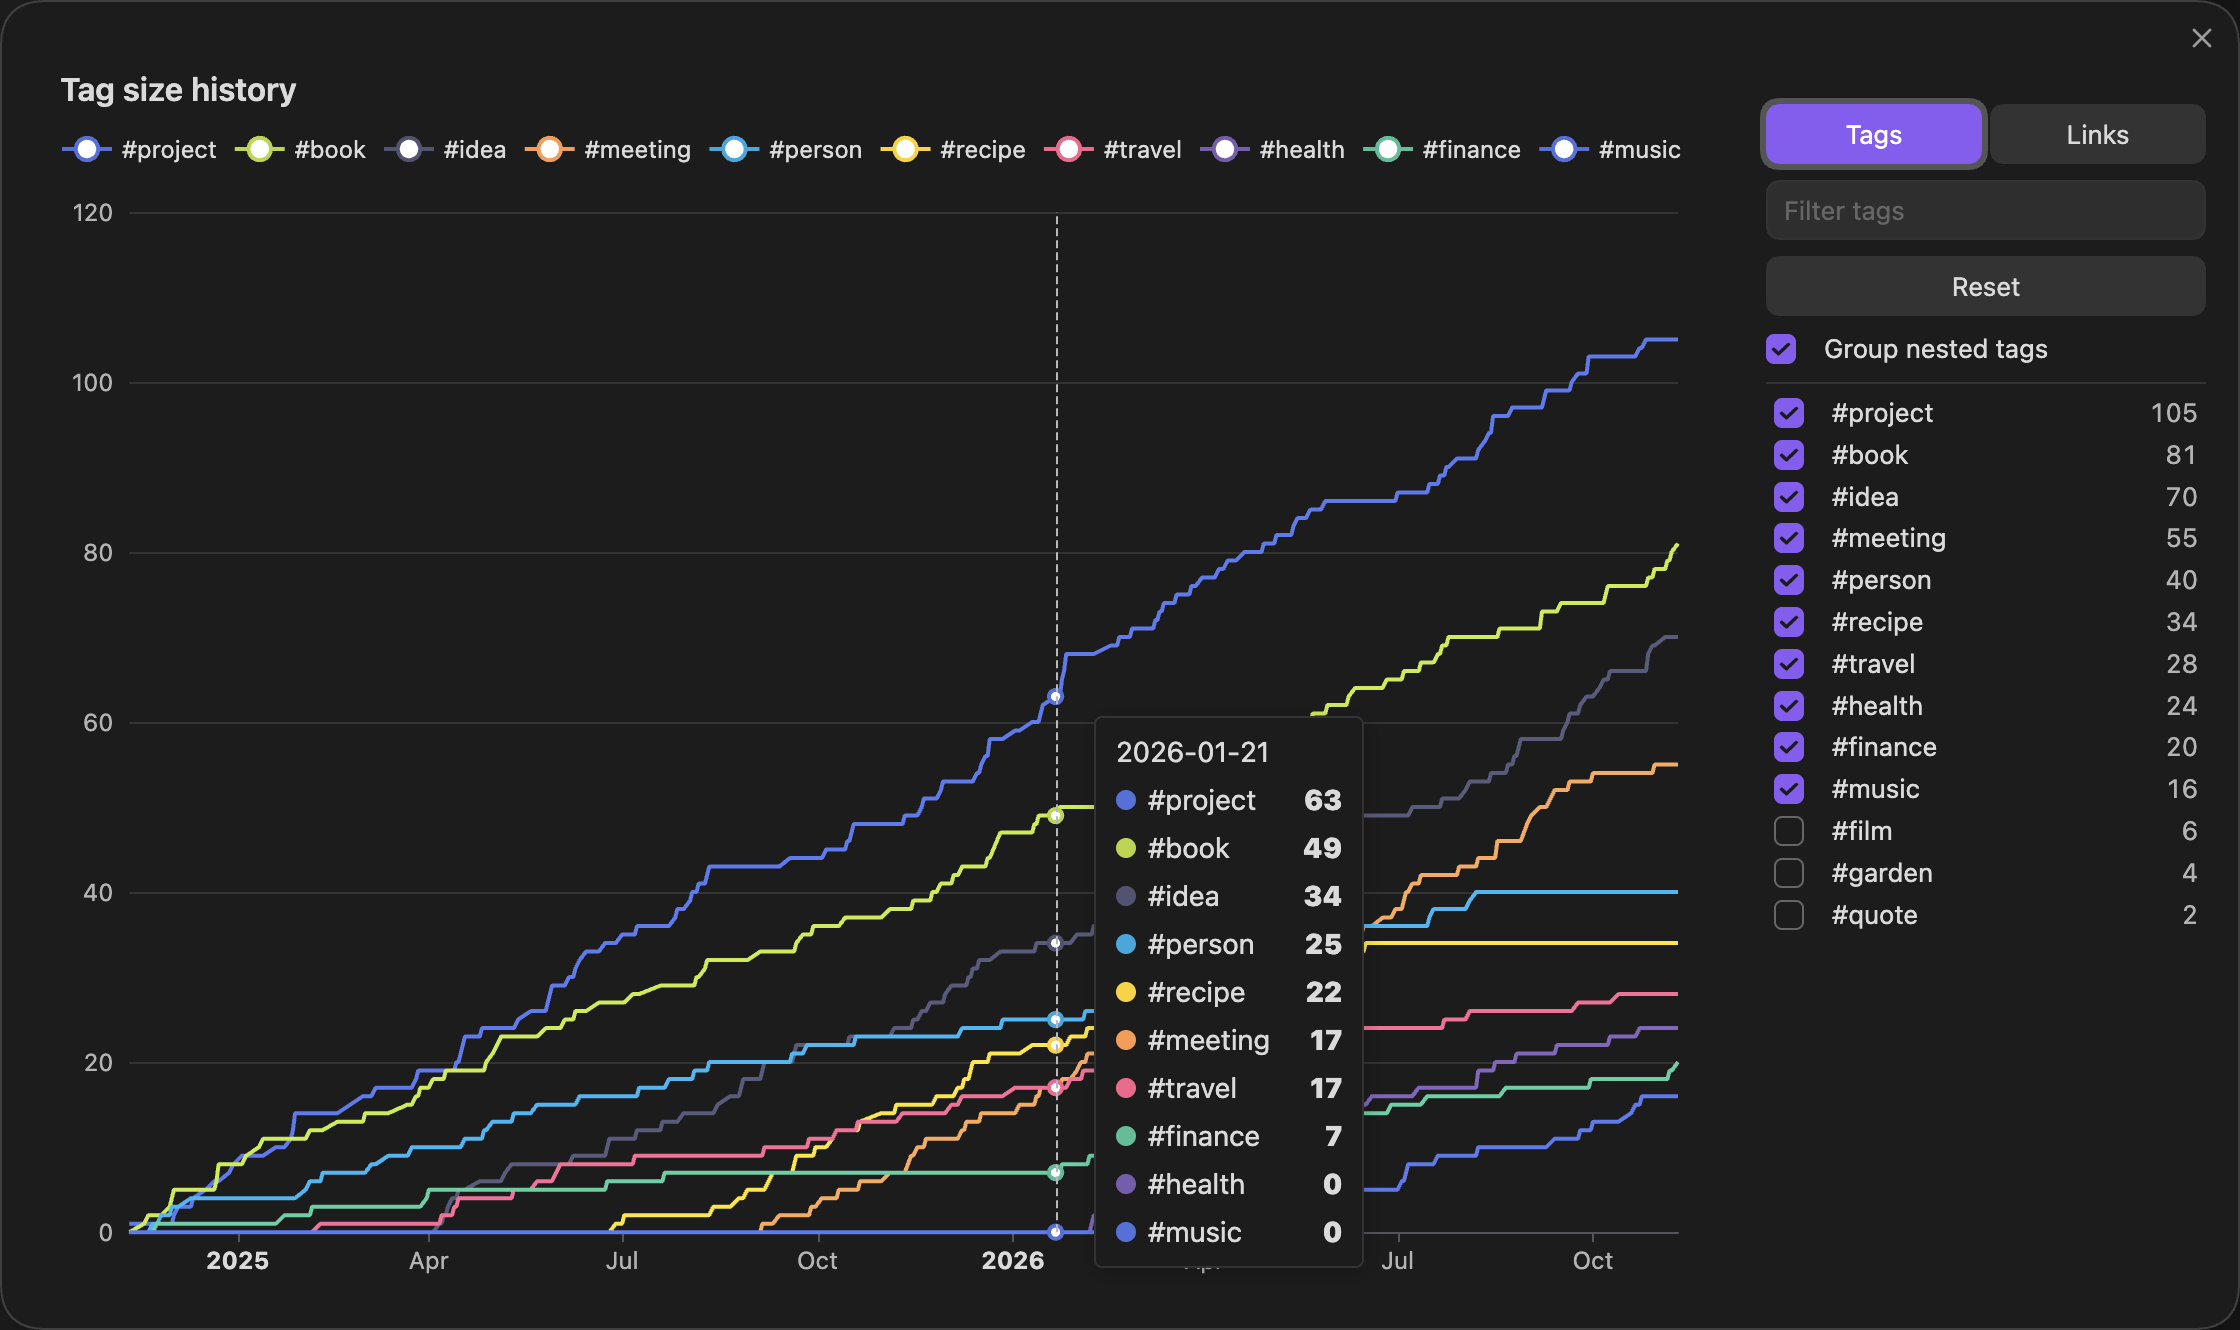
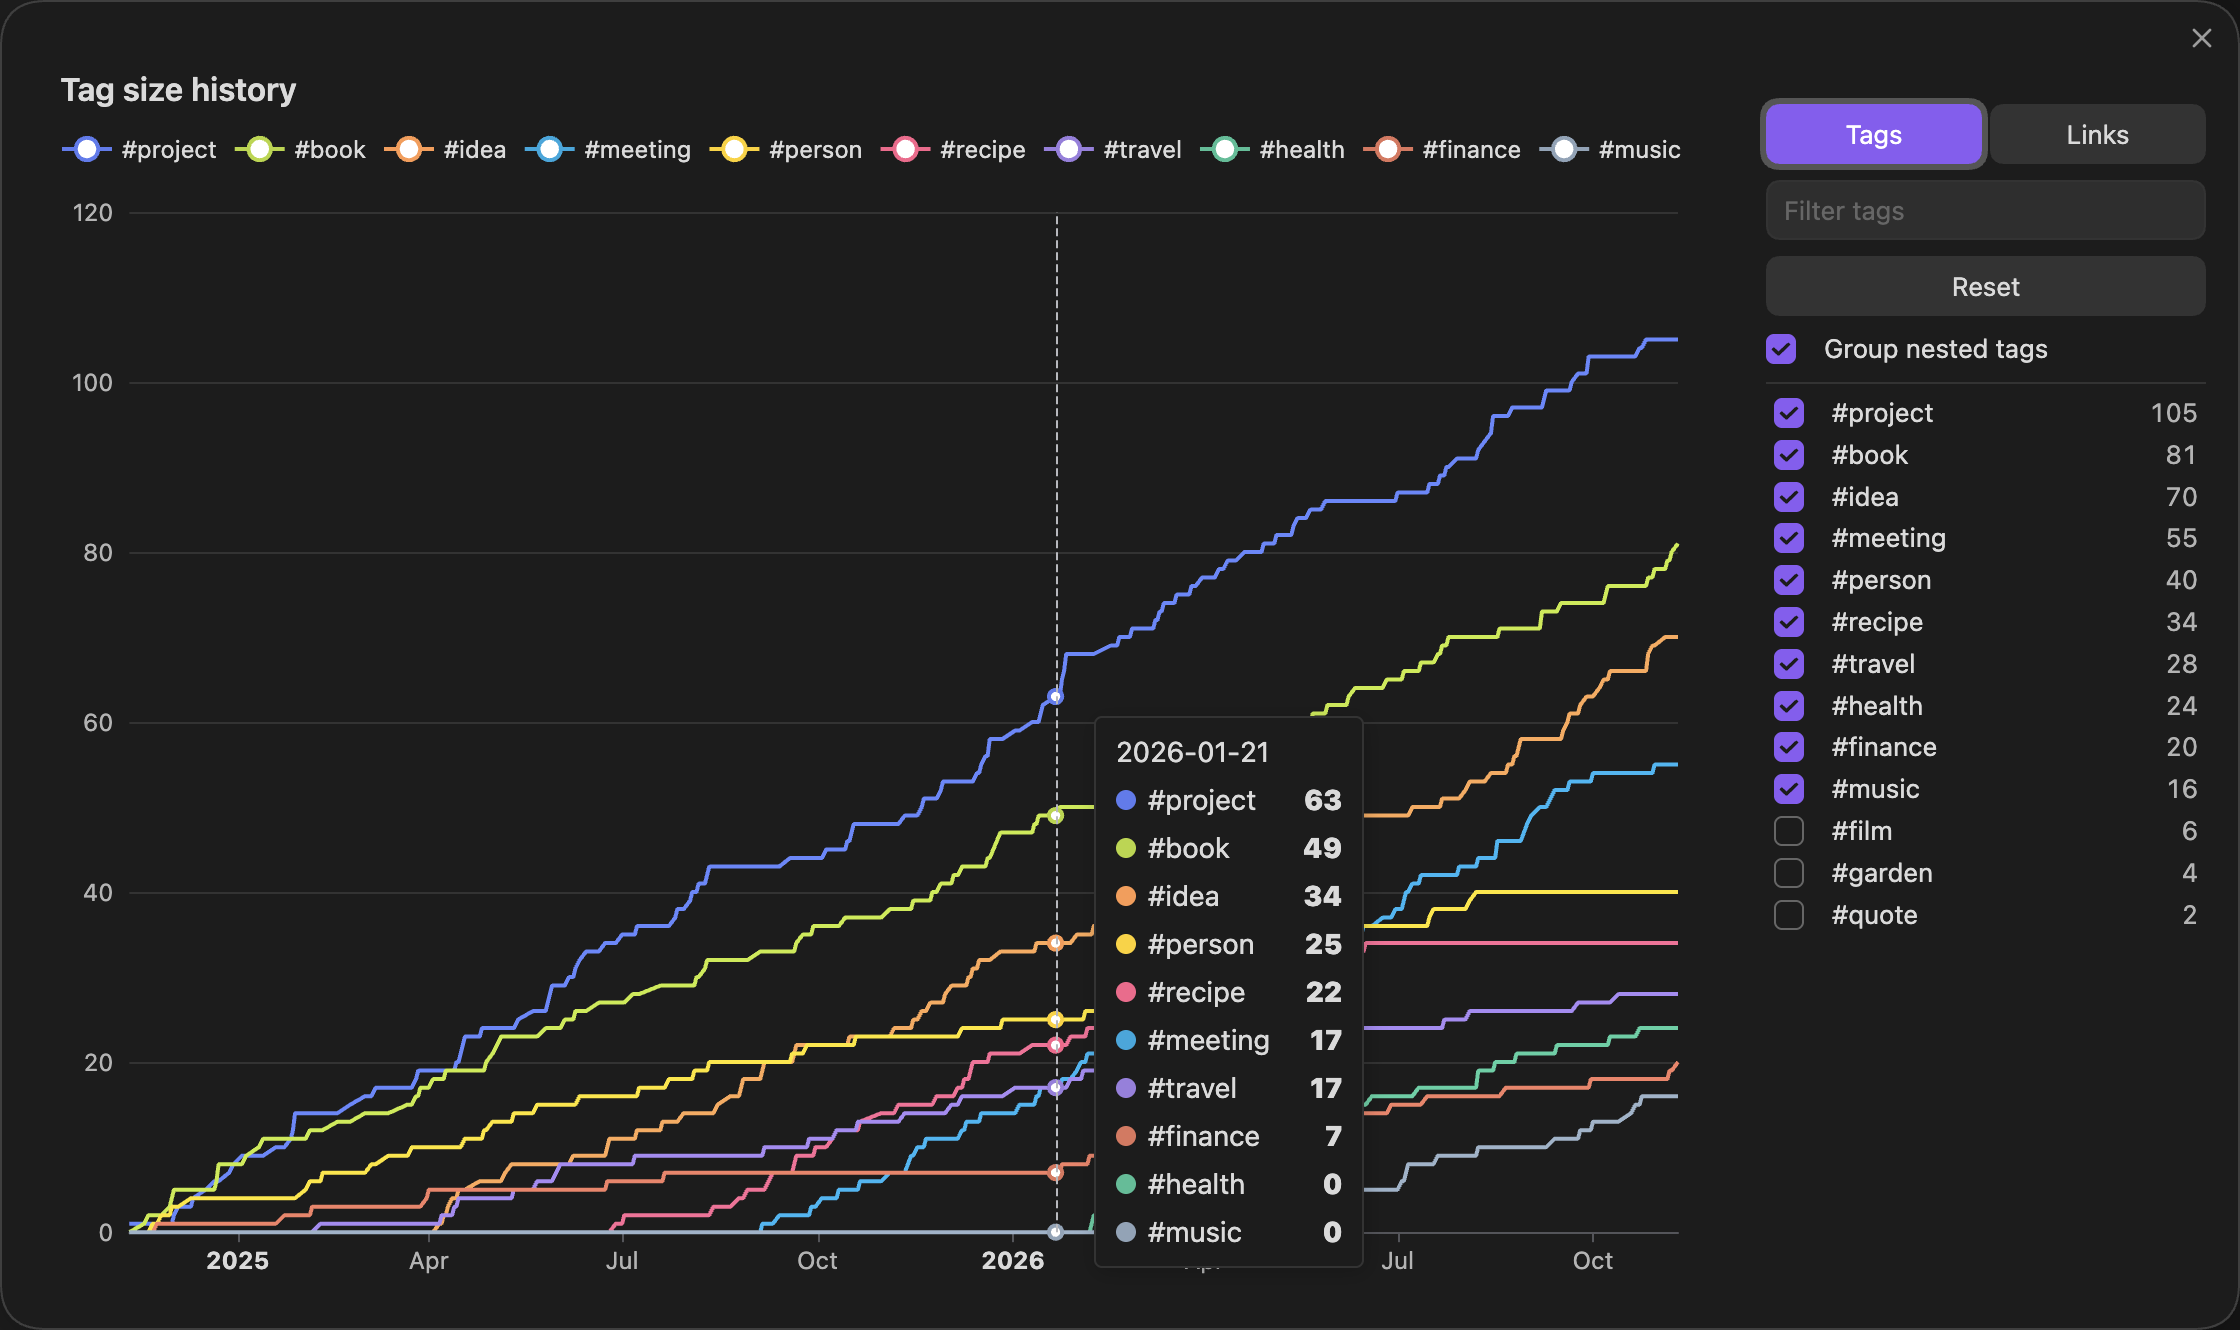
feat: keep each line's colour when others change, and release 0.2.0
Each line now keeps its colour and its place when another line is
switched on or off: colours come from a line's rank among all lines,
and series are matched by id between redraws.

The README pictures are re-recorded one step at a time, with a drawn
pointer that glides to each control and a hold until the chart has
settled. A links GIF replaces the links still. Version 0.2.0.

Claude-Session: https://claude.ai/code/session_01Qc1CQVGfA7RyxWgo2LaeVb

diff --git a/test/chart-option.test.ts b/test/chart-option.test.ts
@@ -1,14 +1,14 @@
 import { test } from "node:test";
 import assert from "node:assert/strict";
-import { buildChartOption } from "../src/chart-option.ts";
+import { buildChartOption, lineColour } from "../src/chart-option.ts";
 import type { ChartData, ChartTheme } from "../src/types.ts";
 
 const NO_THEME: ChartTheme = { text: "", muted: "", border: "", background: "", font: "" };
 const DATA: ChartData = {
 	days: [100, 200, 300],
 	lines: [
-		{ name: "#book", counts: [1, 2, 5] },
-		{ name: "#film", counts: [0, 1, 1] },
+		{ name: "#book", rank: 0, counts: [1, 2, 5] },
+		{ name: "#film", rank: 3, counts: [0, 1, 1] },
 	],
 };
 
@@ -67,4 +67,23 @@ test("theme colours are applied, and missing ones leave the chart's defaults", (
 	const plain = buildChartOption(DATA, NO_THEME, "Tag size history");
 	assert.deepEqual(plain.textStyle, {});
 	assert.equal("backgroundColor" in plain.tooltip, false);
+});
+
+test("a line's colour comes from its rank, so it does not change when other lines come and go", () => {
+	const colours = buildChartOption(DATA, NO_THEME, "Any title").series.map((s) => s.itemStyle.color);
+	assert.deepEqual(colours, [lineColour(0), lineColour(3)]);
+	assert.deepEqual(
+		buildChartOption(DATA, NO_THEME, "Any title").series.map((s) => s.id),
+		["#book", "#film"],
+		"each line has an id, so the chart can match it between redraws",
+	);
+	assert.notEqual(lineColour(0), lineColour(3));
+
+	const alone: ChartData = { days: DATA.days, lines: DATA.lines.slice(1) };
+	assert.equal(buildChartOption(alone, NO_THEME, "Any title").series[0]?.itemStyle.color, lineColour(3));
+});
+
+test("colours repeat after the last one rather than running out", () => {
+	assert.equal(lineColour(10), lineColour(0));
+	assert.match(lineColour(57), /^#[0-9a-f]{6}$/);
 });

diff --git a/test/history.test.ts b/test/history.test.ts
@@ -99,18 +99,19 @@ test("untagged notes add nothing", () => {
 
 test("chart data puts every line on the same days, ending today", () => {
 	const histories = tagHistories([note(march(1), "#a"), note(march(3), "#b"), note(march(5), "#a")]);
-	const data = chartData(histories, march(9));
+	const data = chartData(histories, histories, march(9));
 	assert.deepEqual(data.days, [day(1), day(3), day(5), day(9)]);
 	assert.deepEqual(data.lines, [
-		{ name: "a", counts: [1, 1, 2, 2] },
-		{ name: "b", counts: [0, 1, 1, 1] },
+		{ name: "a", rank: 0, counts: [1, 1, 2, 2] },
+		{ name: "b", rank: 1, counts: [0, 1, 1, 1] },
 	]);
 });
 
 test("chart data does not repeat today when a note was created today", () => {
-	const data = chartData(tagHistories([note(march(9, 8), "#a")]), march(9, 20));
+	const one = tagHistories([note(march(9, 8), "#a")]);
+	const data = chartData(one, one, march(9, 20));
 	assert.deepEqual(data.days, [day(9)]);
-	assert.deepEqual(data.lines, [{ name: "a", counts: [1] }]);
+	assert.deepEqual(data.lines, [{ name: "a", rank: 0, counts: [1] }]);
 });
 
 test("the date source picks which date a note counts from", () => {
@@ -282,4 +283,15 @@ test("links follow the date source", () => {
 
 test("a vault with no links has no link lines", () => {
 	assert.deepEqual(linkHistories([linking("a.md", march(1))], "created"), []);
+});
+
+test("a line keeps its rank when the lines above it are not shown", () => {
+	const shown = RANKED.filter((h) => h.name !== "a");
+	assert.deepEqual(
+		chartData(shown, RANKED, march(9)).lines.map((line) => [line.name, line.rank]),
+		[
+			["b", 1],
+			["c", 2],
+		],
+	);
 });

diff --git a/src/chart-option.ts b/src/chart-option.ts
@@ -8,11 +8,14 @@ interface TextStyle {
 }
 
 interface LineSeries {
+	/** Lets the chart tell which line is which between redraws, so only lines that changed move. */
+	id: string;
 	name: string;
 	type: "line";
 	showSymbol: boolean;
 	symbolSize: number;
 	lineStyle: { width: number };
+	itemStyle: { color: string };
 	/** `[start of day, note count]` */
 	data: [number, number][];
 }
@@ -53,6 +56,25 @@ export interface ChartOption {
 	series: LineSeries[];
 }
 
+/** Line colours that read on dark and light backgrounds. Lines past the last colour start again. */
+const PALETTE = [
+	"#5b7cf0",
+	"#b6d634",
+	"#ff994d",
+	"#0ca8df",
+	"#ffd10a",
+	"#fb628b",
+	"#9a7fe0",
+	"#3fbe95",
+	"#e0745c",
+	"#8fa3b8",
+];
+
+/** A line's colour comes from its rank, not its place among the shown lines, so it never changes. */
+export function lineColour(rank: number): string {
+	return PALETTE[rank % PALETTE.length] ?? "#5b7cf0";
+}
+
 /** Leaves a key out when the theme has no value for it, so ECharts keeps its default. */
 function colour(value: string): { color?: string } {
 	return value === "" ? {} : { color: value };
@@ -60,11 +82,13 @@ function colour(value: string): { color?: string } {
 
 function series(data: ChartData): LineSeries[] {
 	return data.lines.map((line) => ({
+		id: line.name,
 		name: line.name,
 		type: "line",
 		showSymbol: false,
 		symbolSize: 6,
 		lineStyle: { width: 2 },
+		itemStyle: { color: lineColour(line.rank) },
 		data: data.days.map((day, i): [number, number] => [day, line.counts[i] ?? 0]),
 	}));
 }

diff --git a/src/history.ts b/src/history.ts
@@ -171,10 +171,17 @@ function countsOn(history: History, days: number[]): number[] {
 	});
 }
 
-/** Puts the given lines on one shared list of days, ending today, so every line has a point on every day. */
-export function chartData(histories: History[], now: number): ChartData {
-	const all = new Set<number>([startOfDay(now)]);
-	for (const history of histories) for (const [day] of history.days) all.add(day);
-	const days = [...all].sort((a, b) => a - b);
-	return { days, lines: histories.map((h) => ({ name: h.name, counts: countsOn(h, days) })) };
+/**
+ * Puts the `shown` lines on one shared list of days, ending today, so every line has a point on every day.
+ * `all` is every line, largest first; a line's place in it is its rank.
+ */
+export function chartData(shown: History[], all: History[], now: number): ChartData {
+	const days = new Set<number>([startOfDay(now)]);
+	for (const history of shown) for (const [day] of history.days) days.add(day);
+	const sorted = [...days].sort((a, b) => a - b);
+	const ranks = new Map(all.map((history, rank) => [history.key, rank]));
+	return {
+		days: sorted,
+		lines: shown.map((h) => ({ name: h.name, rank: ranks.get(h.key) ?? 0, counts: countsOn(h, sorted) })),
+	};
 }

diff --git a/src/types.ts b/src/types.ts
@@ -63,7 +63,8 @@ export interface History {
 export interface ChartData {
 	/** Start of each day that has a point, oldest first. */
 	days: number[];
-	lines: { name: string; counts: number[] }[];
+	/** `rank` is the line's place among all lines, largest first. It picks the colour, so a line keeps its colour when others are switched on or off. */
+	lines: { name: string; rank: number; counts: number[] }[];
 }
 
 /** Colours and font taken from the Obsidian theme. An empty string leaves the chart's default. */

diff --git a/src/chart.ts b/src/chart.ts
@@ -36,7 +36,8 @@ export function drawChart(el: HTMLElement, option: ChartOption): Chart {
 	return {
 		set: (next) => {
 			current = next;
-			chart?.setOption(next, true);
+			// Everything is replaced except that lines are matched by id, so a line that stays does not jump.
+			chart?.setOption(next, { replaceMerge: ["series"] });
 		},
 		remove: () => {
 			observer.disconnect();

diff --git a/src/history-modal.ts b/src/history-modal.ts
@@ -99,7 +99,7 @@ export class TagHistoryModal extends Modal {
 	private chartOption(chartEl: HTMLElement): ChartOption {
 		const shown = shownHistories(this.histories, choicesOf(this.settings));
 		return buildChartOption(
-			chartData(shown, Date.now()),
+			chartData(shown, this.histories, Date.now()),
 			readTheme(chartEl),
 			MODES[this.settings.mode].title,
 		);

diff --git a/AGENTS.md b/AGENTS.md
@@ -52,7 +52,7 @@ npm test       # tests only
 npm run build  # writes main.js (gitignored)
 scripts/deploy.sh /path/to/vault   # copy a build into a vault to try it
 make obsidian-check                # run the plugin in a real, throwaway Obsidian (needs Obsidian)
-make readme-images                 # the same, and refresh the pictures and demo.gif in docs/images/ (needs ffmpeg)
+make readme-images                 # the same, and refresh the pictures and GIFs in docs/images/ (needs ffmpeg)
 ```
 
 `make check` runs, in order: prettier check, eslint with zero warnings (strict type-checked rules, complexity limits, the Obsidian rules), `tsc --noEmit` in strict mode, knip for dead code, dependency-cruiser for module boundaries, the layout check, the tests, and a production build. The pre-commit hook and CI both run exactly `make check`. The commit-msg hook and CI also check conventional commits.
@@ -67,6 +67,8 @@ make readme-images                 # the same, and refresh the pictures and demo
 - The UI modules are tested under jsdom with a stubbed `obsidian` module (`test/obsidian-stub.ts`). To see a change in real Obsidian, run `make obsidian-check` (decision 0009): it starts a separate Obsidian with its own temp profile and vault, so the owner's Obsidian is never touched, prints one line per check, and leaves screenshots in `.scratch/obsidian-check/`. Add a check to `CHECKS` in the script for new user-facing behaviour, and empty `.scratch/` before ending the session.
 - In the real-Obsidian check, wait about two seconds after changing the chart before taking a picture. New lines draw in over a second, and a picture taken sooner shows them cut short.
 - The chart is made when its container first has a size, not when the pop-up opens (`src/chart.ts`). A pop-up's content has no size at the moment `onOpen` runs, and a chart made then is resized at once, which cancels the lines drawing in. The `grows` check in the real-Obsidian script guards this.
+- Recordings show one thing at a time. `recordDemo` glides a drawn pointer to a control, presses it, and holds for `SETTLE` (the 1.4 second redraw plus a pause) before the next step. Do not shorten the holds: steps that overlap a redraw confuse the viewer. After recording, look at a contact sheet of the frames before committing the pictures.
+- A line's colour comes from its rank among all lines (`lineColour`), and each series has an `id`. Together they stop the other lines changing colour or sliding about when one line is switched. The `colours` check guards the first.
 - When recording, do not take clipped screenshots between pointer moves. A clipped screenshot briefly changes the page's size, the chart redraws, and the tooltip jumps. The recording takes whole-page frames and ffmpeg crops them.
 - Obsidian 1.15 does not draw its settings in the main window's page, so the check reads the settings tab through `app.setting.activeTab` and takes no picture of it.
 - Commits in this repo use the owner's GitHub noreply address (`git config user.email` is set per repo). The repo is public, so do not commit a personal email address.

diff --git a/PROGRESS.md b/PROGRESS.md
@@ -2,7 +2,7 @@
 
 ## Status
 
-The first build of MIT-655 is complete: T1 to T6 are done and version 0.1.2 is on `main`. The owner waived the approval stops for that build only; later sessions follow the rules as written, including stopping for approval.
+The first build of MIT-655 is complete: T1 to T6 are done and version 0.2.0 is on `main`. The owner waived the approval stops for that build only; later sessions follow the rules as written, including stopping for approval.
 
 ## Tasks
 
@@ -15,7 +15,7 @@ One task per branch and PR, in order. Each starts at the entry point named and w
 - [x] **T5. Check in a real Obsidian, README with pictures.** Entry: `make obsidian-check`. Runs the plugin in a throwaway Obsidian with a sample vault, checks the pop-up draws, and saves README pictures. Done when: the check passes locally and the README shows a real screenshot.
 - [x] **T6. Hand over 0.1.0.** The build is copied into the owner's test vault with `scripts/deploy.sh`, and the Linear ticket has a summary. No tag is pushed; tagging is publishing and waits for the owner.
 
-- [ ] **T7. Links mode.** Entry: the Tags and Links buttons in the pop-up. A line per linked note, counting the notes that link to it over time. Built on branch `feat/link-history` and waiting in a pull request for the owner. Not released: merging it needs a version bump, a tag, and "Check for new releases" on the directory entry.
+- [x] **T7. Links mode.** Entry: the Tags and Links buttons in the pop-up. A line per linked note, counting the notes that link to it over time. Released in 0.2.0, with fixed line colours and re-recorded pictures.
 
 ## Ideas not asked for
 
@@ -44,3 +44,4 @@ Nothing is queued. The plugin is listed at https://community.obsidian.md/plugins
 - The first run in a real Obsidian showed that hovering one line dimmed all the others (`emphasis.focus`), and that the legend beside the title ran out of room. Both are fixed: no dimming, and the legend has its own row.
 - The lines never drew in on opening until 0.1.2, because the chart was made before the pop-up had a size. Recording the README's moving pictures is what showed it.
 - Links mode reuses the tag machinery: `history` counts anything a note "counts toward", keyed by lower-case tag or by note path (decision 0010).
+- The first recordings pressed things faster than the chart redrew, and lines changed colour when a tag was switched. 0.2.0 fixes the colours in the plugin and paces the recordings.

diff --git a/README.md b/README.md
@@ -10,10 +10,10 @@ Click the chart icon in the ribbon, or run **Tag Size History: Open chart** from
 
 - The chart starts with your ten largest tags.
 - Hover to see every tag's note count on that date.
-- Use the panel on the right to switch any tag on or off. Type in the box to filter the list. Your choices are remembered. **Reset** goes back to the largest tags.
+- Use the panel on the right to switch any tag on or off. Each tag keeps its colour while others come and go. Type in the box to filter the list. Your choices are remembered. **Reset** goes back to the largest tags.
 - **Group nested tags** decides how `#project/alpha` is counted. On, it counts toward `#project` only. Off, it also gets a line of its own.
 
-![A tooltip sweeps across the dates, tags are switched on and off, and nested tags are split into their own lines](docs/images/demo.gif)
+![A tooltip sweeps across the dates, then one tag is switched on, another off, and Reset brings back the largest](docs/images/demo.gif)
 
 ![The pop-up in the dark theme, with a tooltip listing each tag's note count on the hovered date](docs/images/chart.png)
 
@@ -25,7 +25,7 @@ The chart follows your theme, light or dark.
 
 Press **Links** in the panel to chart links instead of tags. Each line is one of your notes, and it shows how many notes link to it over time, so you can see which notes grew into hubs and when. The largest are shown first, and you can switch any note on or off as with tags.
 
-![Links mode: one line per note, counting the notes that link to it](docs/images/links.png)
+![Pressing Links swaps the chart to one line per note, counting the notes that link to it; switching a note off removes its line](docs/images/links.gif)
 
 A linking note counts once, from its own date, however many links it has to the same note.
 
